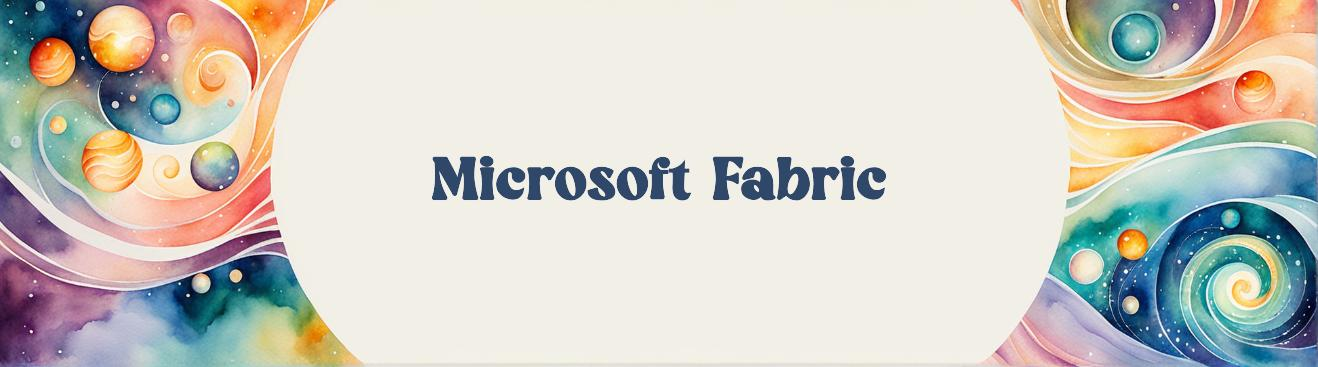
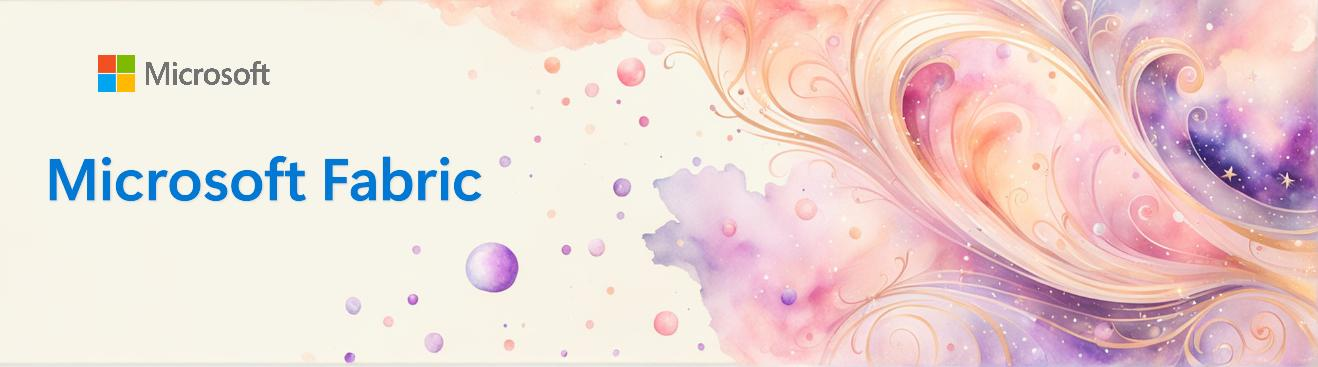
Update Runtime 2.0 post, refresh images, and tweak index styles

diff --git a/_sass/layouts/_index.scss b/_sass/layouts/_index.scss
@@ -9,7 +9,7 @@
 
   .call-out-img {
     width: 100%;
-    max-height: 320px;
+    max-height: 420px;
     display: block;
     object-fit: cover;
     object-position: top;

diff --git a/_posts/2026-04-02-fabric-runtime-2-0-why-it-matters.md b/_posts/2026-04-02-fabric-runtime-2-0-why-it-matters.md
@@ -2,7 +2,7 @@
 layout: post
 title: "Fabric Runtime 2.0: Why It Matters for Spark Developers"
 date: 2026-04-02
-feature-img: assets/images/Runtime2.jpg
+feature-img: assets/images/Runtime-02.jpg
 feature-title: ""
 author: Arshad Ali
 categories:
